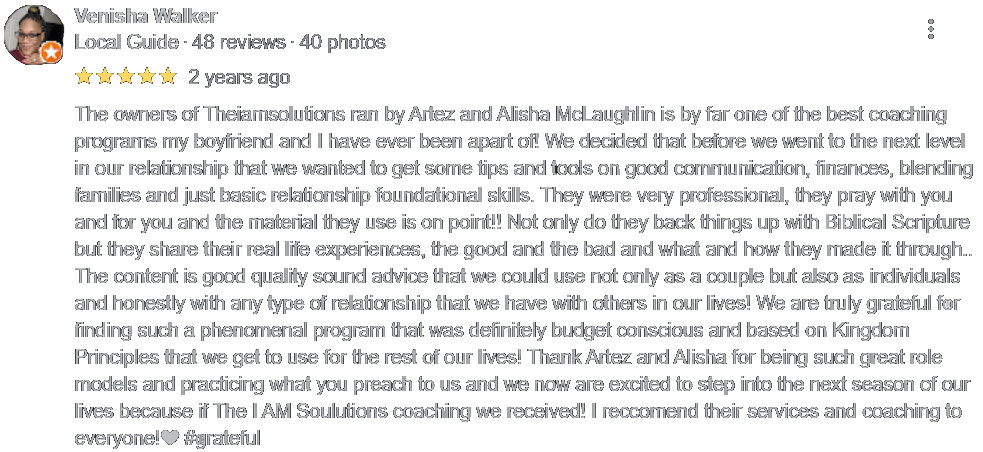
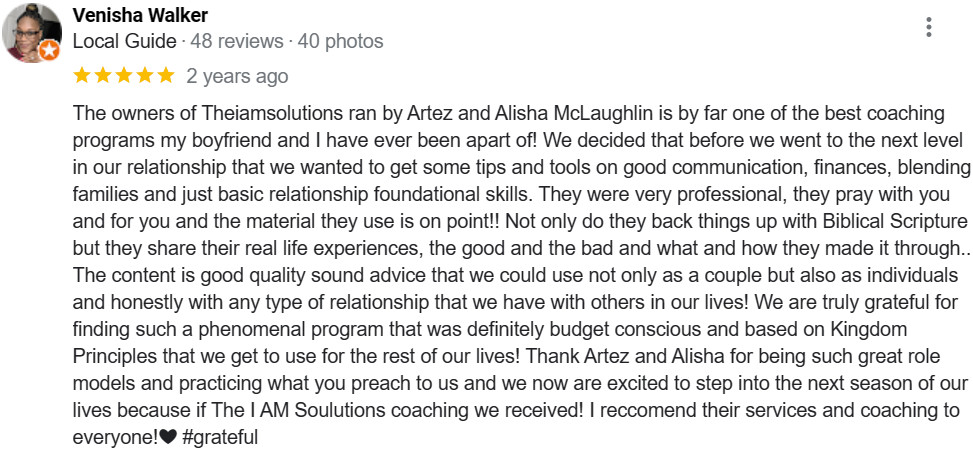
Contact

diff --git a/css/contact-light-mode.css b/css/contact-light-mode.css
@@ -416,24 +416,23 @@ line-height: 1.4em;
 }
 
 .section-two{
-margin: 0 3.7em 0 3.7em;
-font-size: 145%;
-text-align: center;
-float: left;
+  margin: 0 0.5em;
+  font-size: 210%;
+  line-height: 1.4em;
 }
 
 .review{
 font-family: 'Montserrat', sans-serif;
-font-size: 200%;
+font-size: 350%;
 text-align: center;
 }
 
 footer {
-height: 1.5em;
-padding: 1% 0 0 0;
-margin: -4% 0 0 0;
-font-size: 170%;
-font-weight: 600;
+  height: 1.6em;
+  padding: 0.4em 0 0 0;
+  margin: 0;
+  font-size: 260%;
+  font-weight: 600;
 }
 }
 
